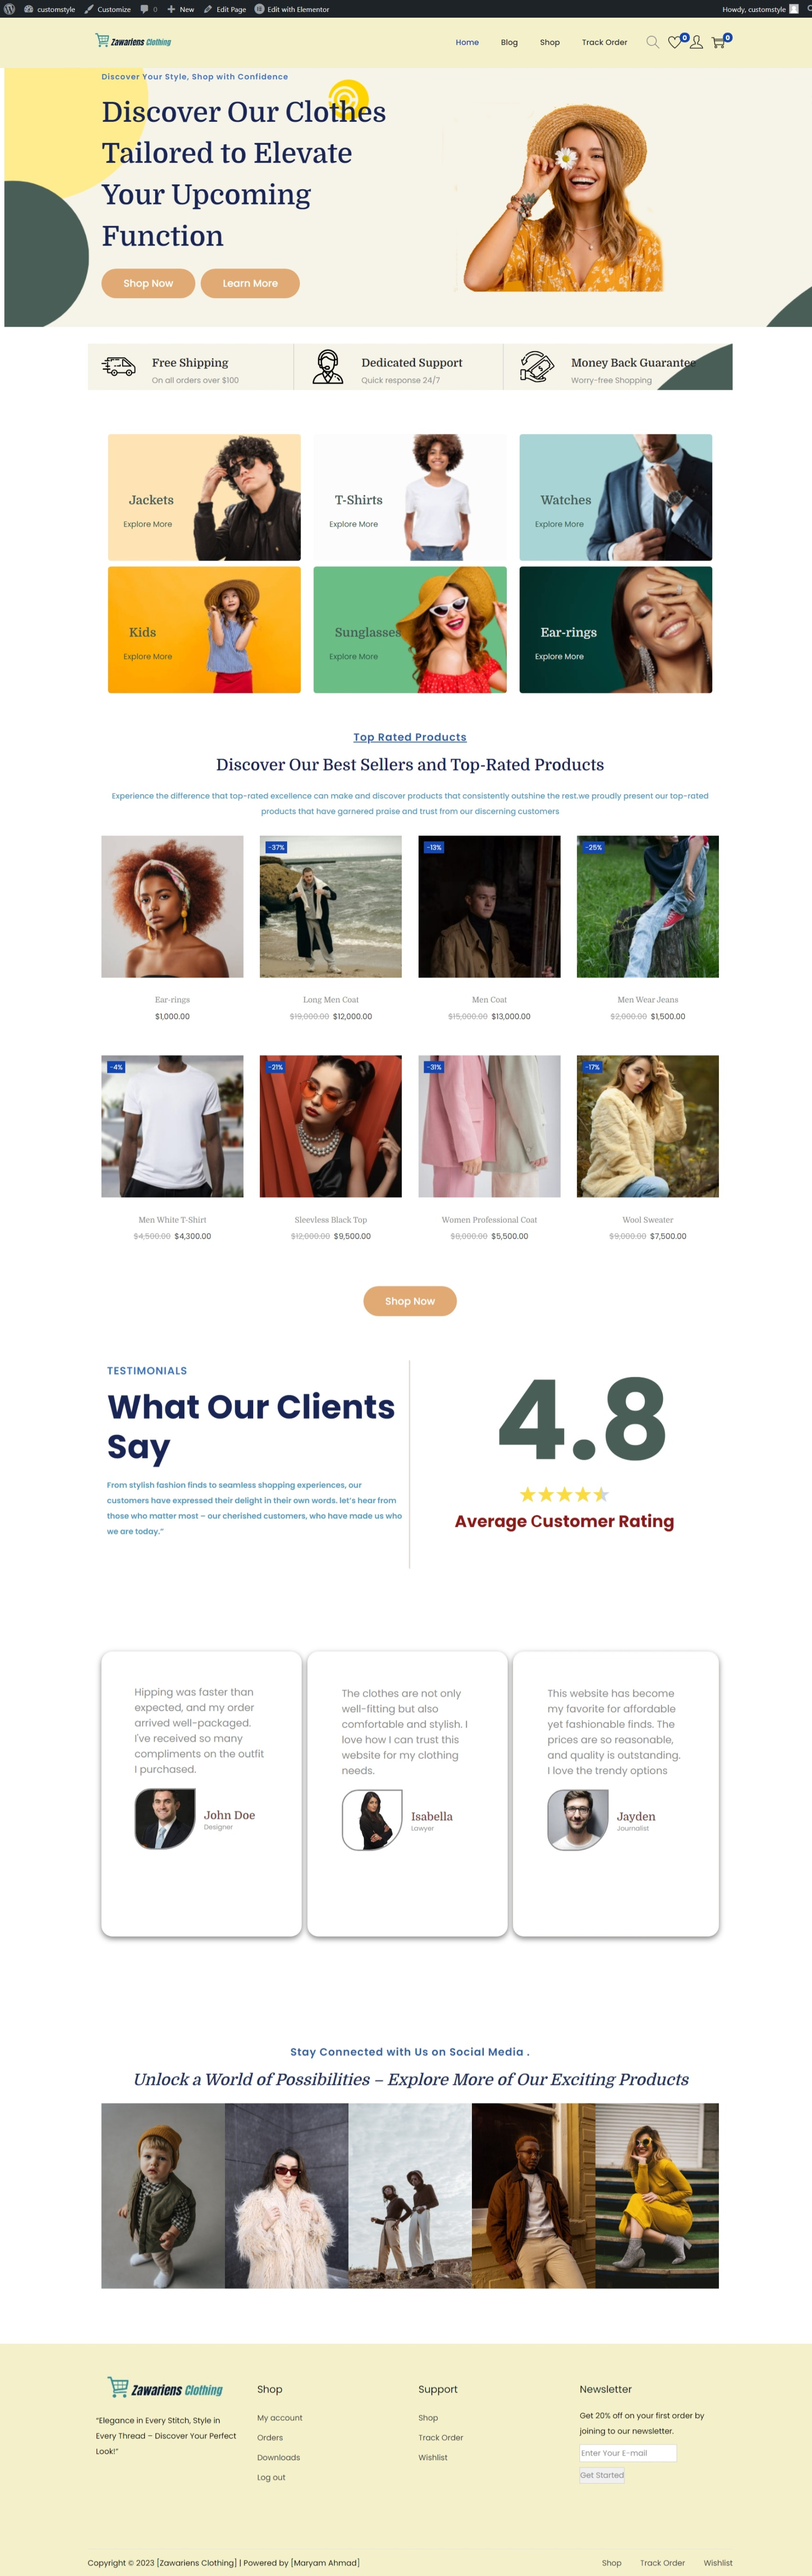
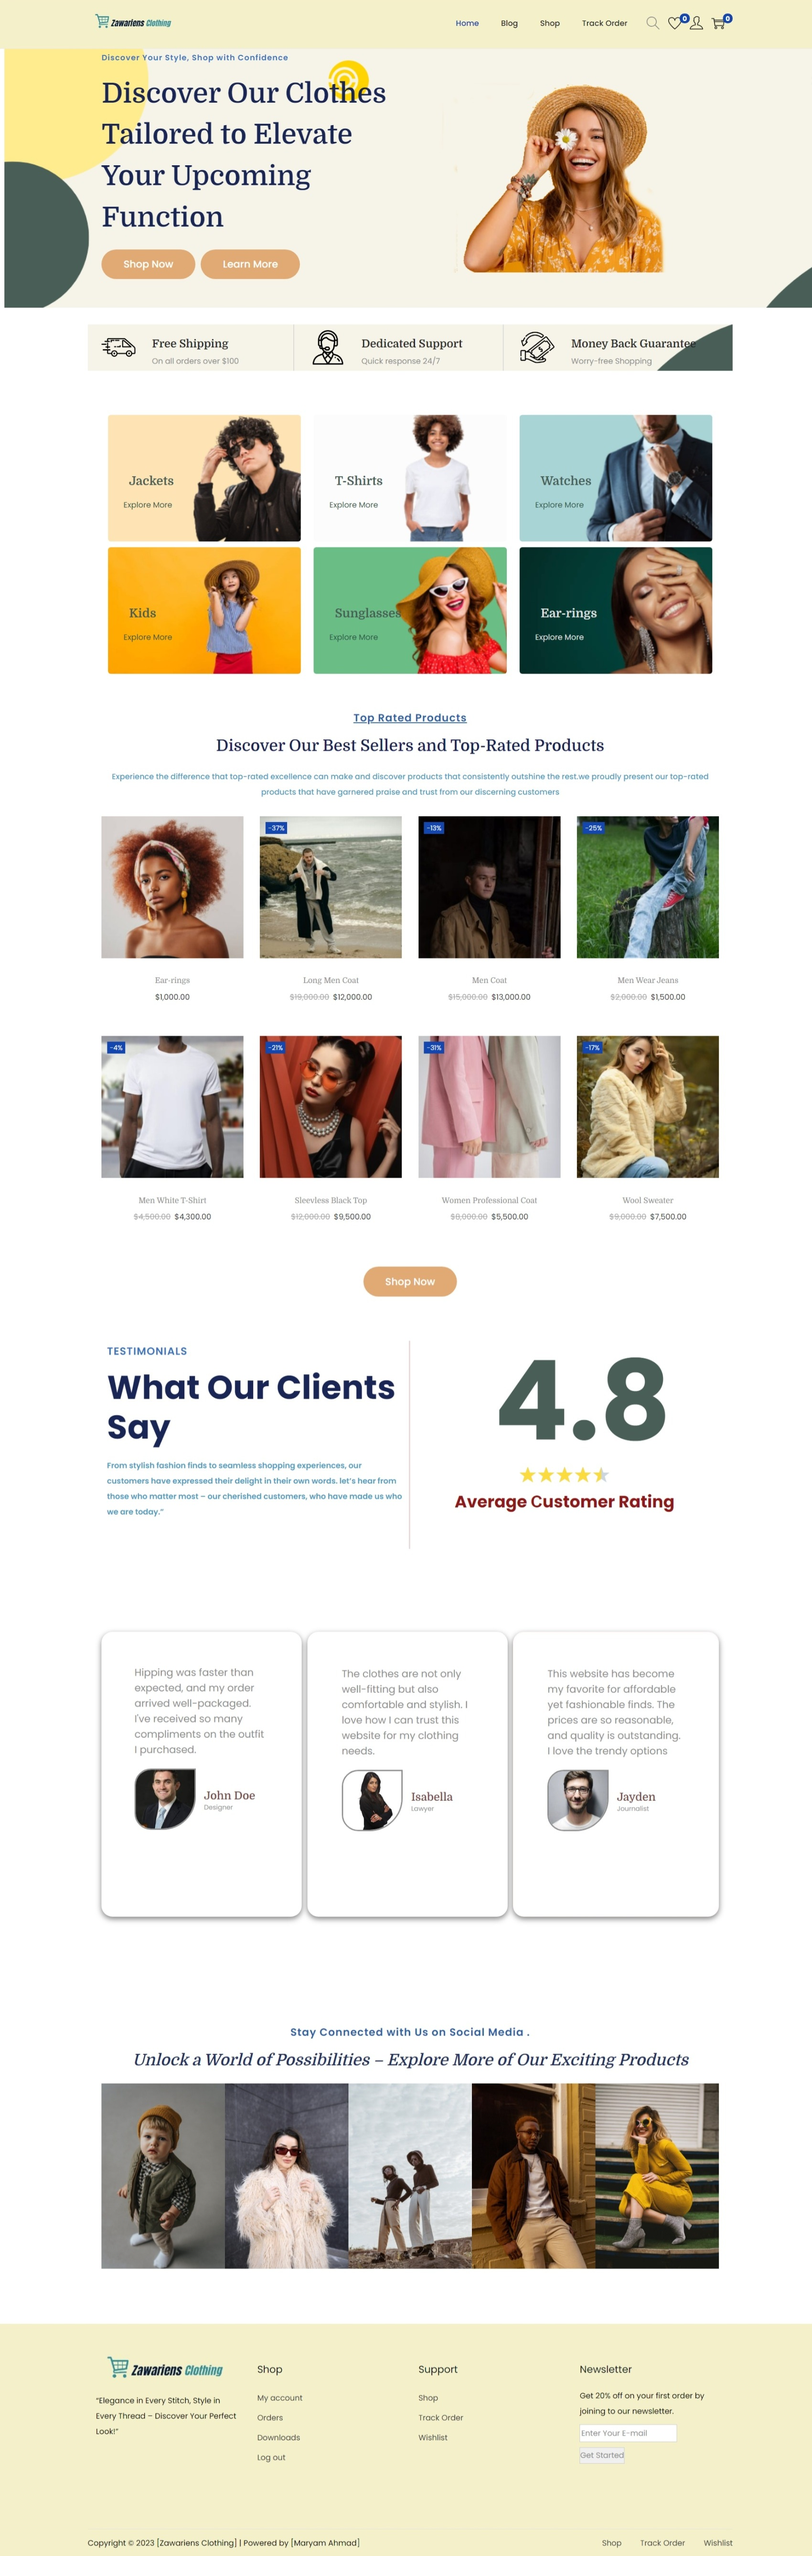
Updated code

diff --git a/style.css b/style.css
@@ -22,7 +22,7 @@ html { /*For Button Links on page*/
 }
 @media (max-width: 600px) {
   .top-bar {
-    width: 1105px;
+    width: 1070px;
     height: 70px;
   }
   .top-icon {
@@ -120,7 +120,7 @@ html { /*For Button Links on page*/
   .hero-section {
    flex-direction: column;
    gap: 10px;
-   width: 1105px;
+   width: 1070px;
    height: 1350px;
   }
   .hero-left-side{
@@ -1029,7 +1029,7 @@ html { /*For Button Links on page*/
 @media (max-width: 600px) {
 .footer {
   display: grid;
-  width: 1105px;
+  width: 1070px;
   height:auto;
   margin-top: 100px;
 }
